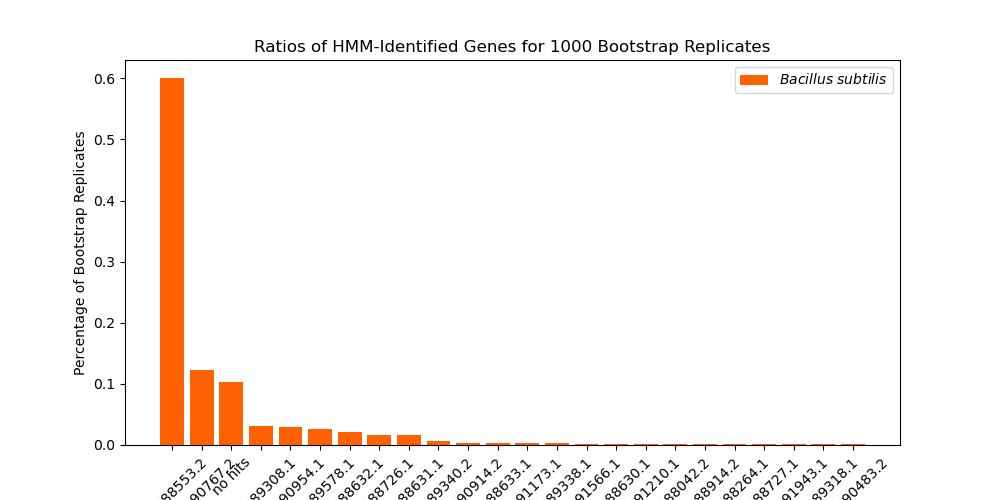
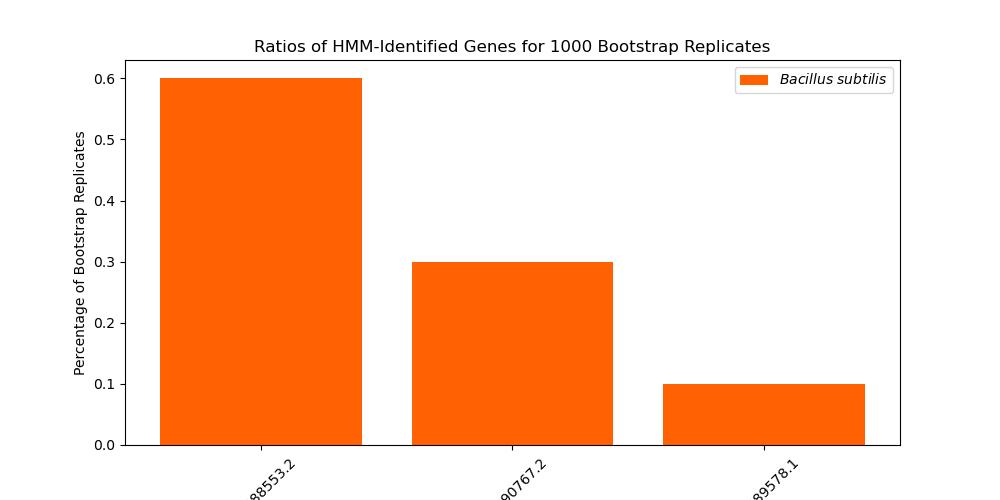
added dendrogram files to be saved to folder

Changed region(s): [[0.155, 0.15, 0.899, 1.0], [0.651, 0.75, 0.868, 0.9]]

diff --git a/Code/440_final_code.py b/Code/440_final_code.py
@@ -474,7 +474,7 @@ def plot_bootstrap(protein_df_salm_rand, protein_df_bac_subt_rand):
     plt.savefig('../Figures/Bacillus Subtilis Bootstrap.png')
     return fig
 
-samples = 1000
+samples = 10
 [protein_df_salm_rand, protein_df_bac_subt_rand] = bootstrap(samples, genes_df_all)
 fig = plot_bootstrap(protein_df_salm_rand, protein_df_bac_subt_rand)
 
@@ -519,7 +519,7 @@ plt.bar(bases, values, color ='maroon', width = 0.4)
 plt.xlabel("Nucleotide Base")
 plt.ylabel("Percentage of Genome (%)")
 plt.title("Distribution of Nucleotide Bases in E. coli Nissle Genome")
-plt.savefig('Distribution of Nucleotide Bases.png')
+plt.savefig('../Figures/Distribution of Nucleotide Bases.png')
 plt.show()
 
 
@@ -596,7 +596,7 @@ def create_square_mat(genes_df, genes_df_paired):
     
     return square_mat_df
 
-def create_dendogram(square_mat_df, genes_df):
+def create_dendogram(square_mat_df, genes_df, gene_OI):
     
     square_mat_df -= 1
     mat = -square_mat_df
@@ -608,6 +608,7 @@ def create_dendogram(square_mat_df, genes_df):
     plt.ylabel("Dissimilarity of Genes")
     plt.xlabel("Genes")
     plt.ylim([0,1])
+    plt.savefig('../Figures/Dendrogram of' + gene_OI + '.png')
     plt.show()
     
     return dend
@@ -616,19 +617,24 @@ def create_dendogram(square_mat_df, genes_df):
     # All Dendrograms
 
 square_mat_all_df = create_square_mat(genes_df_all, genes_df_all_paired)
-dend_all = create_dendogram(square_mat_all_df, genes_df_all)
+dend_all = create_dendogram(square_mat_all_df, genes_df_all, 'all Genes')
+# plt.savefig('../Figures/Dendrogram of all Genes.png')
 
 square_mat_cus_df = create_square_mat(genes_df_cus, genes_df_cus_paired)
-dend_cus = create_dendogram(square_mat_cus_df, genes_df_cus)
+dend_cus = create_dendogram(square_mat_cus_df, genes_df_cus, 'Copper and Silver Genes')
+# plt.savefig('../Figures/Dendrogram of Copper and Silver Genes.png')
 
 square_mat_fec_df = create_square_mat(genes_df_fec, genes_df_fec_paired)
-dend_fec = create_dendogram(square_mat_fec_df, genes_df_fec)
+dend_fec = create_dendogram(square_mat_fec_df, genes_df_fec, 'Iron Genes')
+# plt.savefig('../Figures/Dendrogram of Iron Genes.png')
 
 square_mat_zn_df = create_square_mat(genes_df_zn, genes_df_zn_paired)
-dend_zn = create_dendogram(square_mat_zn_df, genes_df_zn)
+dend_zn = create_dendogram(square_mat_zn_df, genes_df_zn, 'Zinc Genes')
+# plt.savefig('../Figures/Dendrogram of Zinc.png')
 
 square_mat_sit_df = create_square_mat(genes_df_sit, genes_df_sit_paired)
-dend_sit = create_dendogram(square_mat_sit_df, genes_df_sit)
+dend_sit = create_dendogram(square_mat_sit_df, genes_df_sit, 'Iron and Manganese Genes')
+# plt.savefig('../Figures/Dendrogram of Iron and Manganese Genes.png')
 
 
 print('done')
